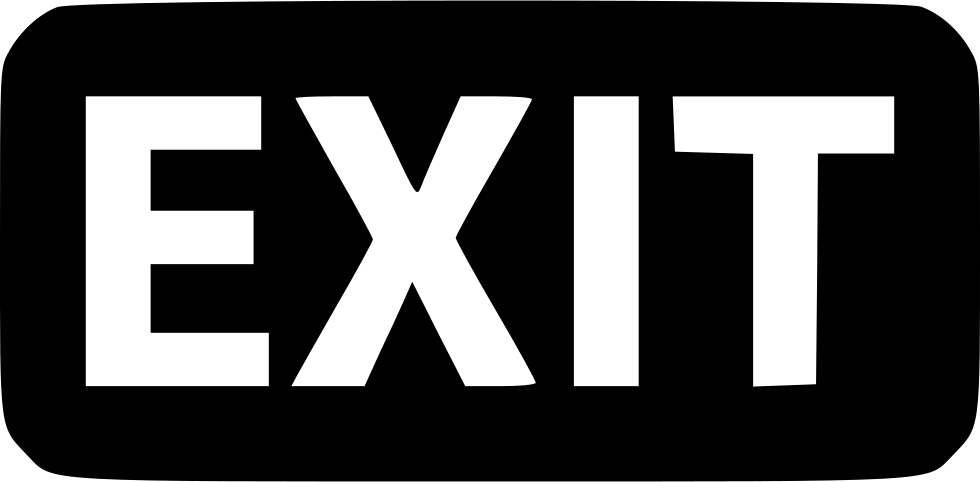
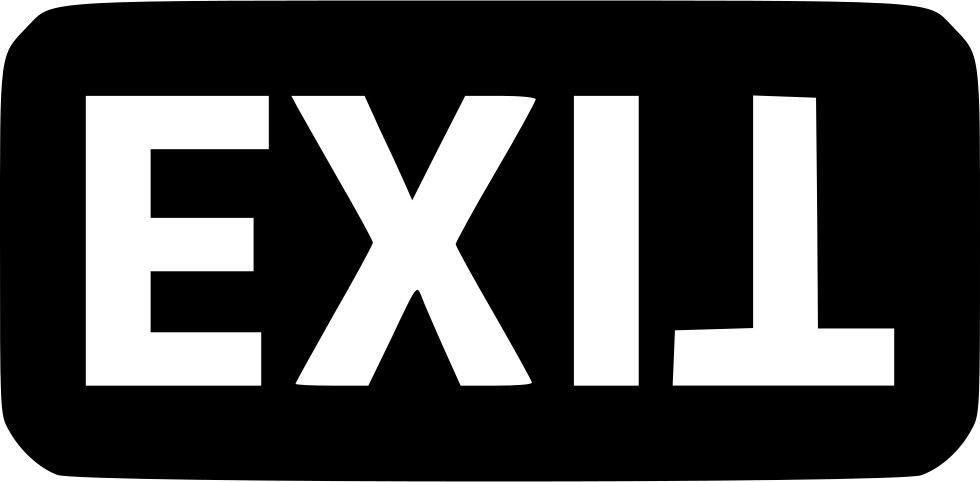
complete working in game aboutPage
updated about page with contents created. image saved as aboutPage.png

diff --git a/ButchGame/core/src/com/butch/game/screens/AboutScreen.java b/ButchGame/core/src/com/butch/game/screens/AboutScreen.java
@@ -6,26 +6,42 @@ import com.badlogic.gdx.audio.Sound;
 import com.badlogic.gdx.graphics.GL20;
 import com.badlogic.gdx.graphics.OrthographicCamera;
 import com.badlogic.gdx.graphics.Texture;
+import com.badlogic.gdx.graphics.g2d.Sprite;
 import com.badlogic.gdx.graphics.g2d.SpriteBatch;
+import com.badlogic.gdx.scenes.scene2d.ui.TextArea;
 import com.butch.game.ButchGame;
+
+import static com.badlogic.gdx.graphics.Texture.TextureFilter.Linear;
 
 public class AboutScreen implements Screen {
     private SpriteBatch batch;
     private ButchGame game;
+    //String aboutText;
     private OrthographicCamera camera;
     private Texture exitButton;
     private int exitButtonX = 100; //location where the exit button will start drawing in x axis
-    private int  exitButtonY = 100; //location where the exit button will start drawing in y axis reversed!
+    private int  exitButtonY = 970; //location where the exit button will start drawing in y axis reversed!
     private int exitButtonWidth = 300; // width of exit Button
     private int exitButtonHeight = 100; // height of exit button
     private Sound sound;
+    Texture back;
+    Sprite backS;
     public AboutScreen(ButchGame game){
         this.game = game;
         camera = new OrthographicCamera();
         camera.setToOrtho(true, 1920, 1080);
+        // import picture to sprite and then using sprite to render background image with canvas dimensions
         batch = new SpriteBatch();
+        back = new Texture(Gdx.files.internal("aboutPage.png"));
+        back.setFilter(Linear, Linear);
+        backS = new Sprite(back);
+        backS.setRegionWidth(1920);
+        backS.setRegionHeight(1080);
+        backS.flip(false,true);
+        //aboutText = new String("bye world");
         exitButton = new Texture("Buttons/exitButton.png");
         sound = Gdx.audio.newSound(Gdx.files.internal("SoundFX/clickingSound.mp3"));
+
     }
     @Override
     public void show() {
@@ -38,9 +54,11 @@ public class AboutScreen implements Screen {
         // ...matter as there will be a background anyway.
         Gdx.gl.glClear(GL20.GL_COLOR_BUFFER_BIT);
         camera.update();
+        batch.setProjectionMatrix(camera.combined);
       batch.begin();
+       batch.draw(backS, 0, 0 );
         if(Gdx.input.getX()>=  exitButtonX && Gdx.input.getX() <= exitButtonWidth + exitButtonX && Gdx.input.getY()
-                <1080 - exitButtonY && Gdx.input.getY() > 1080 - exitButtonY - exitButtonHeight ) {
+                >= exitButtonY && Gdx.input.getY() < exitButtonY + exitButtonHeight ) {
 
             batch.draw(exitButton, exitButtonX, exitButtonY , exitButtonWidth,exitButtonHeight);
             if (Gdx.input.isTouched()) {
@@ -53,7 +71,7 @@ public class AboutScreen implements Screen {
         }
 
         else{
-            batch.draw(exitButton, 100, 100, 215,71);
+            batch.draw(exitButton, 100, 1080- 100, 215,71);
         }
 
       batch.end();

diff --git a/ButchGame/core/src/com/butch/game/ButchGame.java b/ButchGame/core/src/com/butch/game/ButchGame.java
@@ -72,7 +72,7 @@ public class ButchGame extends Game {
 	@Override
 	public void dispose() {
 		super.dispose();
-		assets.dispose();
+//		assets.dispose();
 	}
 
 }
